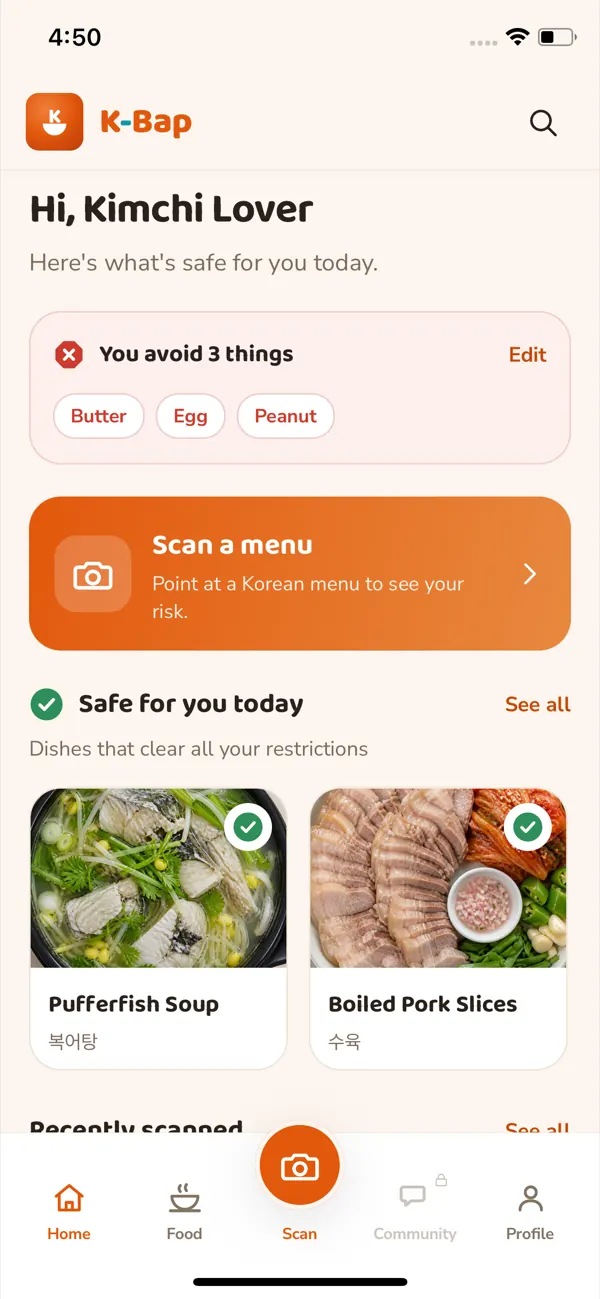
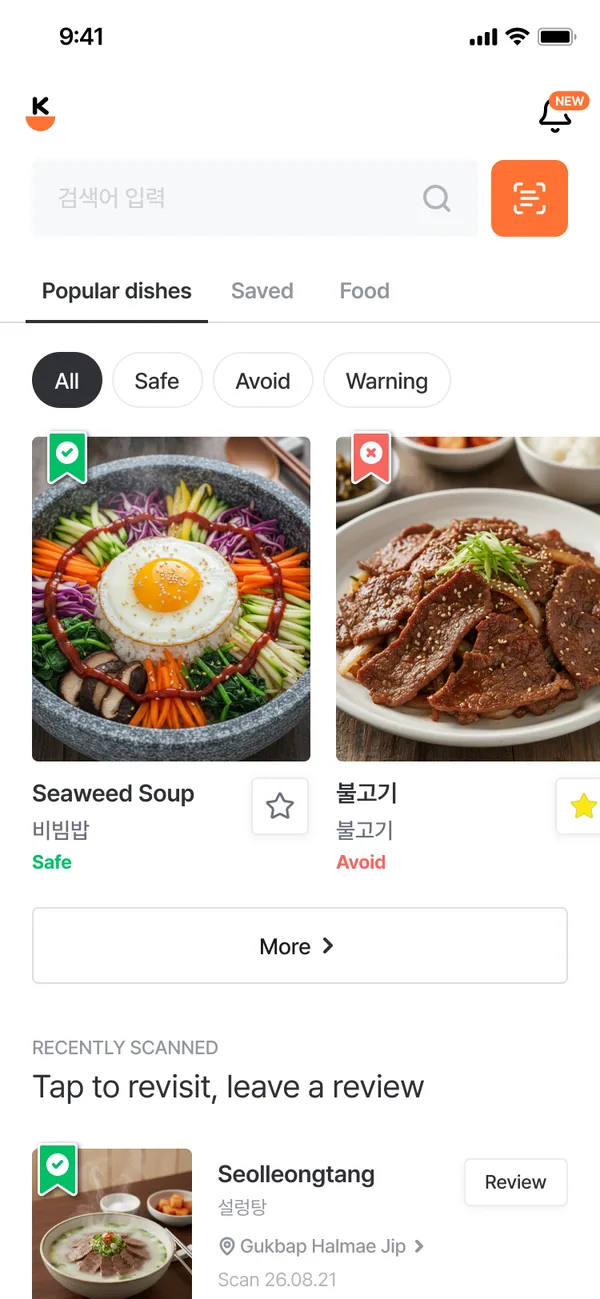
landing: swap the hero to the current design screen
The 7/24 store capture was genuinely out of date, exactly as Yejin said. It
showed the old app icon, a "Hi, Kimchi Lover" home that no longer exists, and
a locked Community tab.

The hero now uses the top of the current home screen from
imgs/design_final_screenshot ("시안 2차 수정.png", 9/18): current mark, search
field with the orange scan button, Popular dishes / Saved / Food tabs, the
All / Safe / Avoid / Warning filters, and dish cards carrying ribbon risk
badges. Exported at 600x1299, the same box the old asset used, so it is a
drop-in and no layout changed. Alt text updated to match what is on screen.

These are the designer's final screens rather than a device capture. The
command centre flagged that distinction and Yejin chose these over waiting,
which is her call to make; the caveat is recorded in the report rather than
argued here.

Lighthouse mobile 100 / 100 / 100 / 100, CLS 0, no layout shifts.

Claude-Session: https://claude.ai/code/session_014HP1oGnoV89dw6VVSwLPzx

diff --git a/index.html b/index.html
@@ -65,7 +65,7 @@
        rules to object to. -->
   <div class="stage">
     <img class="screen" src="assets/shots/home.webp" data-i18n-alt="hero.shotAlt"
-         alt="The K-Bap home screen, with a scan button and dishes rated safe for the user"
+         alt="The K-Bap app showing Korean dishes labelled Safe or Avoid, with a scan button"
          width="600" height="1299" fetchpriority="high" decoding="async">
   </div>
 </main>
